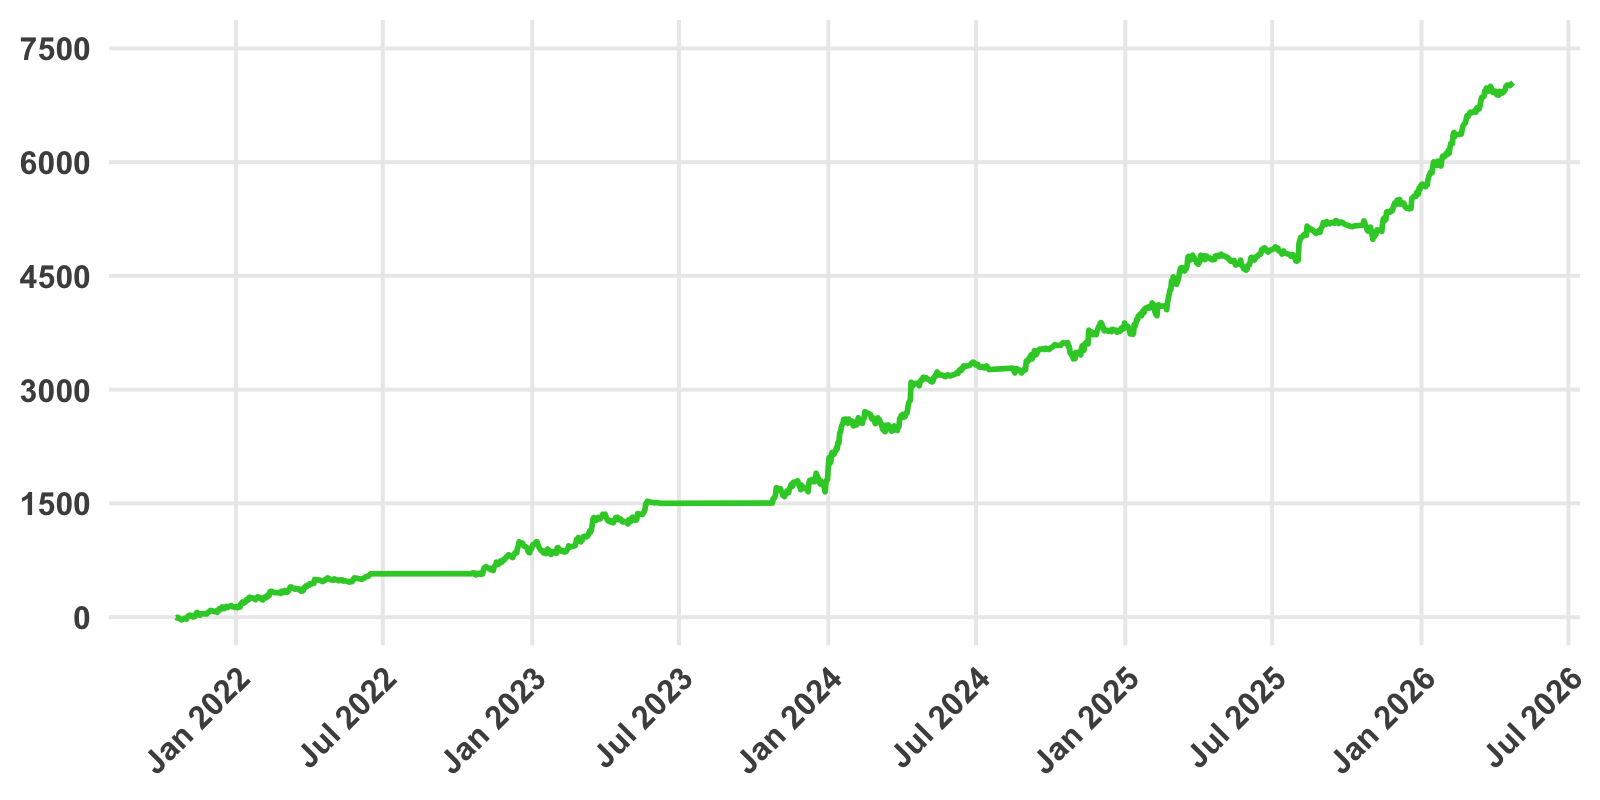
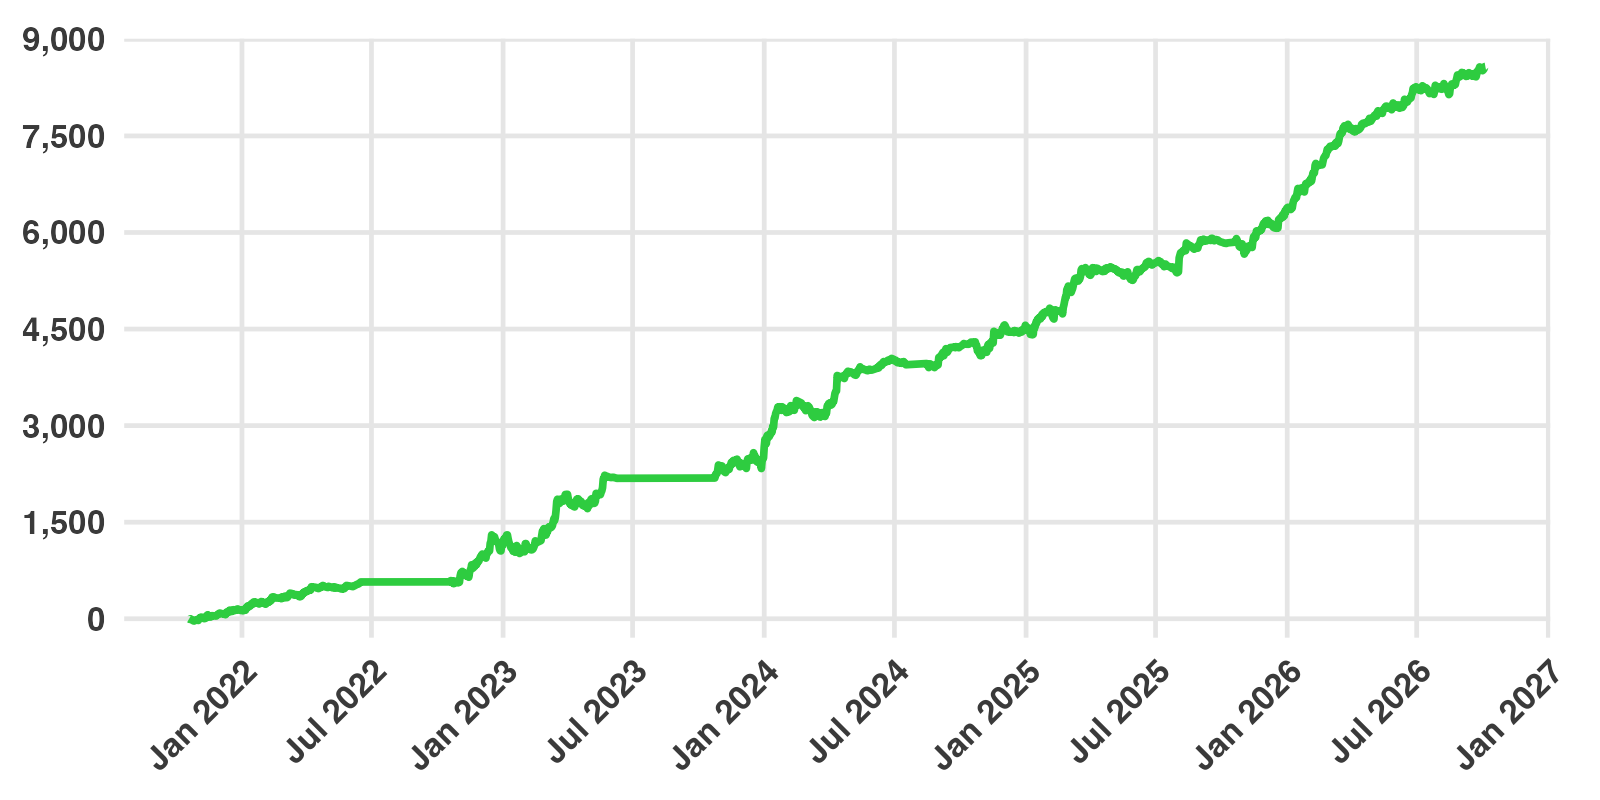
Built site for gh-pages

diff --git a/faq.html b/faq.html
@@ -72,7 +72,7 @@ gtag('config', 'G-66MCY7L0V7', { 'anonymize_ip': true});
 <!-- <meta name="msvalidate.01" content="PASTE_BING_TOKEN"> -->
 <link rel="alternate" type="application/rss+xml" title="Slam Dunk Bets Articles" href="https://slamdunk.bet/articles.xml">
 <link rel="preconnect" href="https://www.googletagmanager.com">
-<script type="application/ld+json">{"@context":"https://schema.org","@graph":[{"@id":"https://slamdunk.bet/#organization","@type":"Organization","description":"Model-driven NBA, WNBA and MLB prop picks from a team of data scientists: first baskets, home runs and NRFI/YRFI, refreshed every 30 minutes and tracked to 8,000+ net units since 2021-22.","email":"slamdunkbettingservices@gmail.com","foundingDate":"2020","image":"https://slamdunk.bet/images/brand/og-default.png","legalName":"Slam Dunk Betting Services LLC","logo":{"@type":"ImageObject","height":512,"url":"https://slamdunk.bet/images/brand/logo-square.png","width":512},"name":"Slam Dunk Bets","sameAs":["https://x.com/slam_dunk_bets","https://x.com/jimtheflash","https://sharpduel.com/slam_dunk_bets","https://whop.com/slam-dunk-bets","https://app.slamdunk.bet"],"url":"https://slamdunk.bet/"},{"@id":"https://slamdunk.bet/#website","@type":"WebSite","description":"Model-driven NBA, WNBA and MLB prop picks from a team of data scientists: first baskets, home runs and NRFI/YRFI, refreshed every 30 minutes and tracked to 8,000+ net units since 2021-22.","inLanguage":"en-US","name":"Slam Dunk Bets","publisher":{"@id":"https://slamdunk.bet/#organization"},"url":"https://slamdunk.bet/"},{"@id":"https://slamdunk.bet/faq.html","@type":"FAQPage","description":"Who we are, what Slam Dunk Bets costs, which NBA, WNBA and MLB props we project, how we track ROI (8,000+ net units since 2021-22), whether it’s legal where you live, where the data comes from, and how the models work.","inLanguage":"en-US","isPartOf":{"@id":"https://slamdunk.bet/#website"},"mainEntity":[{"@type":"Question","acceptedAnswer":{"@type":"Answer","text":"<p>We’re a bunch of data scientists and engineers who use machine\nlearning and artificial intelligence to project who will score first,\nand how they’ll do it, for every NBA and WNBA regular season and playoff\ngame — plus who’ll go deep and whether the first inning scores for every\nMLB game. Slam Dunk Bets has been at this since 2020; more on the <a\nhref=\"https://slamdunk.bet/about.html\">About page<\/a>.<\/p>"},"name":"Who are you nerds?"},{"@type":"Question","acceptedAnswer":{"@type":"Answer","text":"<p>$19.99 a week, $49.99 a month, or $499.99 a year, and every plan\nstarts with a 30-day free trial. Prices are the same whether you\nsubscribe through <a\nhref=\"https://sharpduel.com/slam_dunk_bets\">Sharpduel<\/a>, our preferred\npartner, or <a href=\"https://whop.com/slam-dunk-bets\">Whop<\/a>. Details\non the <a href=\"https://slamdunk.bet/subscribe.html\">Subscribe page<\/a>.<\/p>"},"name":"How much does it cost?"},{"@type":"Question","acceptedAnswer":{"@type":"Answer","text":"<p>Subscribe through Sharpduel or Whop and you get access to our Discord\nserver, where plays post automatically all day with recommended unit\nsizes, plus the <a href=\"https://slamdunk.bet/apps.html\">Slam Dunk Dashboard<\/a> at <a\nhref=\"https://app.slamdunk.bet\">app.slamdunk.bet<\/a>, where you sign in\nwith Discord or Google and see every edge, every book’s price, and the\nfull graded record.<\/p>"},"name":"How do I get the picks?"},{"@type":"Question","acceptedAnswer":{"@type":"Answer","text":"<p>Here’s the current list, but we’re always adding more when new props\nbecome available!<\/p>\n<p>For NBA:<\/p>\n<ul>\n<li>first basket (points and field goals)<\/li>\n<li>first basket exact method<\/li>\n<li>first basket by team<\/li>\n<li>first basket by team exact method<\/li>\n<li>win tipoff<\/li>\n<li>player to <em>not<\/em> score first basket<\/li>\n<li>team to score first<\/li>\n<li>team to score first exact method<\/li>\n<li>first assist<\/li>\n<li>first block<\/li>\n<li>first rebound<\/li>\n<li>first steal<\/li>\n<\/ul>\n<p>For WNBA:<\/p>\n<ul>\n<li>first basket (points and field goals)<\/li>\n<li>first basket exact method<\/li>\n<li>first basket by team<\/li>\n<li>team to score first<\/li>\n<\/ul>\n<p>For MLB:<\/p>\n<ul>\n<li>home runs (by batter)<\/li>\n<li>no runs first inning (NRFI) / yes runs first inning (YRFI)<\/li>\n<\/ul>"},"name":"What props do you project?"},{"@type":"Question","acceptedAnswer":{"@type":"Answer","text":"<p>We don’t do first basket of second half yet. And we also don’t\nproject for games in the future (i.e. games for tomorrow). None of this\nis set in stone, and we do try to keep up with new props as they become\navailable!<\/p>"},"name":"Any notable first basket props you don’t project?"},{"@type":"Question","acceptedAnswer":{"@type":"Answer","text":"<p>We track every bet we recommend and update our ROI totals by market\nevery day on our Discord. Our programmatically tracked betting records\ngo back to the 2021-22 NBA season, and the season-to-date record for\nevery market is always visible in the <a\nhref=\"https://slamdunk.bet/apps.html\">Dashboard<\/a>.<\/p>"},"name":"Do you track your bets?"},{"@type":"Question","acceptedAnswer":{"@type":"Answer","text":"<p>We’ve cleared 8,000+ net units across our tracked NBA, WNBA and MLB\npicks since 2021-22. Unit sizes vary from bettor to bettor, but common\nunits are $100, $10, or $1. Season by season, regular season plus\nplayoffs, with ROI measured on units staked:<\/p>\n<ul>\n<li>2025-26 NBA: +2,135 units (16.4% ROI)<\/li>\n<li>2024-25 NBA: +1,018 units (8.2% ROI)<\/li>\n<li>2023-24 NBA: +1,692 units (11.8% ROI)<\/li>\n<li>2022-23 NBA: +1,610 units*<\/li>\n<li>2021-22 NBA: +572 units (17.1% ROI)**<\/li>\n<li>2026 WNBA: +365 units (11.6% ROI) through August 30<\/li>\n<li>2025 WNBA: +529 units (17.0% ROI)<\/li>\n<li>2024 WNBA: +418 units (21.6% ROI)<\/li>\n<li>2026 MLB, since baseball launched on July 16: home runs +126 units\n(6.0% ROI) and NRFI/YRFI +3 units (0.7% ROI). Stolen bases and batter\nprops started in September and are too new to read anything into.<\/li>\n<\/ul>\n<p>These are the standardized-unit totals from our graded ledgers as of\nSeptember 14, 2026. The live record for every market is in the <a\nhref=\"https://slamdunk.bet/apps.html\">Dashboard<\/a>.<\/p>\n<p><em>* reflects a different application of kelly criterion than we\nused moving forward, i.e. a smaller kelly factor.<\/em><\/p>\n<p><em>** our first tracked season, bet at flat stakes before we\nintroduced Kelly sizing.<\/em><\/p>"},"name":"What kind of ROI are we talking about then?"},{"@type":"Question","acceptedAnswer":{"@type":"Answer","text":"<p>Yep and we update them every day, automatically. Season recaps with\nthe full charts are in the <a href=\"https://slamdunk.bet/articles.html\">Articles<\/a>, starting\nwith the <a href=\"https://slamdunk.bet/posts/2024-10/nba-202324-performance.html\">2023-24 NBA\nrecap<\/a>.<\/p>"},"name":"Whoa that’s a LOT, like an order of magnitude better than other handicappers. You got receipts?"},{"@type":"Question","acceptedAnswer":{"@type":"Answer","text":"<p>Slam Dunk Bets is an information service: we publish projections and\npicks, we don’t take bets or hold anyone’s money. You have to be 21 or\nolder (or the legal betting age where you live), and it’s on you to\nfollow the laws of your state or country when you place a bet. If\ngambling stops being fun, the National Problem Gambling Helpline is\n1-800-GAMBLER.<\/p>"},"name":"Is this legal where I live?"},{"@type":"Question","acceptedAnswer":{"@type":"Answer","text":"<p>We wrote about it in this <a\nhref=\"https://slamdunk.bet/posts/2024-10/predict-first-baskets-2.html\">blog post<\/a> where we\ndescribe the data we use to predict first baskets, and in the <a\nhref=\"https://slamdunk.bet/posts/2026-08/predict-home-runs-1.html\">home run series<\/a> for\nMLB.<\/p>"},"name":"Where do you get your data?"},{"@type":"Question","acceptedAnswer":{"@type":"Answer","text":"<p>Well hey we wrote about our models in this <a\nhref=\"https://slamdunk.bet/posts/2024-10/predict-first-baskets-3.html\">blog post<\/a> for first\nbaskets and <a href=\"https://slamdunk.bet/posts/2026-08/predict-home-runs-1.html\">this one<\/a>\nfor home runs.<\/p>"},"name":"What kinds of models we talking about here?"}],"name":"FAQ","publisher":{"@id":"https://slamdunk.bet/#organization"},"url":"https://slamdunk.bet/faq.html"}]}</script>
+<script type="application/ld+json">{"@context":"https://schema.org","@graph":[{"@id":"https://slamdunk.bet/#organization","@type":"Organization","description":"Model-driven NBA, WNBA and MLB prop picks from a team of data scientists: first baskets, home runs and NRFI/YRFI, refreshed every 30 minutes and tracked to 8,000+ net units since 2021-22.","email":"slamdunkbettingservices@gmail.com","foundingDate":"2020","image":"https://slamdunk.bet/images/brand/og-default.png","legalName":"Slam Dunk Betting Services LLC","logo":{"@type":"ImageObject","height":512,"url":"https://slamdunk.bet/images/brand/logo-square.png","width":512},"name":"Slam Dunk Bets","sameAs":["https://x.com/slam_dunk_bets","https://x.com/jimtheflash","https://sharpduel.com/slam_dunk_bets","https://whop.com/slam-dunk-bets","https://app.slamdunk.bet"],"url":"https://slamdunk.bet/"},{"@id":"https://slamdunk.bet/#website","@type":"WebSite","description":"Model-driven NBA, WNBA and MLB prop picks from a team of data scientists: first baskets, home runs and NRFI/YRFI, refreshed every 30 minutes and tracked to 8,000+ net units since 2021-22.","inLanguage":"en-US","name":"Slam Dunk Bets","publisher":{"@id":"https://slamdunk.bet/#organization"},"url":"https://slamdunk.bet/"},{"@id":"https://slamdunk.bet/faq.html","@type":"FAQPage","description":"Who we are, what Slam Dunk Bets costs, which NBA, WNBA and MLB props we project, how we track ROI (8,000+ net units since 2021-22), whether it’s legal where you live, where the data comes from, and how the models work.","inLanguage":"en-US","isPartOf":{"@id":"https://slamdunk.bet/#website"},"mainEntity":[{"@type":"Question","acceptedAnswer":{"@type":"Answer","text":"<p>We’re a bunch of data scientists and engineers who use machine\nlearning and artificial intelligence to project who will score first,\nand how they’ll do it, for every NBA and WNBA regular season and playoff\ngame — plus who’ll go deep and whether the first inning scores for every\nMLB game. Slam Dunk Bets has been at this since 2020; more on the <a\nhref=\"https://slamdunk.bet/about.html\">About page<\/a>.<\/p>"},"name":"Who are you nerds?"},{"@type":"Question","acceptedAnswer":{"@type":"Answer","text":"<p>$19.99 a week, $49.99 a month, or $499.99 a year, and every plan\nstarts with a 30-day free trial. Prices are the same whether you\nsubscribe through <a\nhref=\"https://sharpduel.com/slam_dunk_bets\">Sharpduel<\/a>, our preferred\npartner, or <a href=\"https://whop.com/slam-dunk-bets\">Whop<\/a>. Details\non the <a href=\"https://slamdunk.bet/subscribe.html\">Subscribe page<\/a>.<\/p>"},"name":"How much does it cost?"},{"@type":"Question","acceptedAnswer":{"@type":"Answer","text":"<p>Subscribe through Sharpduel or Whop and you get access to our Discord\nserver, where plays post automatically all day with recommended unit\nsizes, plus the <a href=\"https://slamdunk.bet/apps.html\">Slam Dunk Dashboard<\/a> at <a\nhref=\"https://app.slamdunk.bet\">app.slamdunk.bet<\/a>, where you sign in\nwith Discord or Google and see every edge, every book’s price, and the\nfull graded record.<\/p>"},"name":"How do I get the picks?"},{"@type":"Question","acceptedAnswer":{"@type":"Answer","text":"<p>Here’s the current list, but we’re always adding more when new props\nbecome available!<\/p>\n<p>For NBA:<\/p>\n<ul>\n<li>first basket (points and field goals)<\/li>\n<li>first basket exact method<\/li>\n<li>first basket by team<\/li>\n<li>first basket by team exact method<\/li>\n<li>win tipoff<\/li>\n<li>player to <em>not<\/em> score first basket<\/li>\n<li>team to score first<\/li>\n<li>team to score first exact method<\/li>\n<li>first assist<\/li>\n<li>first block<\/li>\n<li>first rebound<\/li>\n<li>first steal<\/li>\n<\/ul>\n<p>For WNBA:<\/p>\n<ul>\n<li>first basket (points and field goals)<\/li>\n<li>first basket exact method<\/li>\n<li>first basket by team<\/li>\n<li>team to score first<\/li>\n<\/ul>\n<p>For MLB:<\/p>\n<ul>\n<li>home runs (by batter)<\/li>\n<li>no runs first inning (NRFI) / yes runs first inning (YRFI)<\/li>\n<\/ul>"},"name":"What props do you project?"},{"@type":"Question","acceptedAnswer":{"@type":"Answer","text":"<p>We don’t do first basket of second half yet. And we also don’t\nproject for games in the future (i.e. games for tomorrow). None of this\nis set in stone, and we do try to keep up with new props as they become\navailable!<\/p>"},"name":"Any notable first basket props you don’t project?"},{"@type":"Question","acceptedAnswer":{"@type":"Answer","text":"<p>We track every bet we recommend and update our ROI totals by market\nevery day on our Discord. Our programmatically tracked betting records\ngo back to the 2021-22 NBA season, and the season-to-date record for\nevery market is always visible in the <a\nhref=\"https://slamdunk.bet/apps.html\">Dashboard<\/a>.<\/p>"},"name":"Do you track your bets?"},{"@type":"Question","acceptedAnswer":{"@type":"Answer","text":"<p>We’ve cleared 8,000+ net units across our tracked NBA, WNBA and MLB\npicks since 2021-22. Unit sizes vary from bettor to bettor, but common\nunits are $100, $10, or $1. Season by season, regular season plus\nplayoffs, with ROI measured on units staked:<\/p>\n<ul>\n<li>2025-26 NBA: +2,135 units (16.3% ROI)<\/li>\n<li>2024-25 NBA: +1,018 units (8.2% ROI)<\/li>\n<li>2023-24 NBA: +1,692 units (11.8% ROI)<\/li>\n<li>2022-23 NBA: +1,610 units*<\/li>\n<li>2021-22 NBA: +572 units (17.1% ROI)**<\/li>\n<li>2026 WNBA: +443 units (12.2% ROI), regular season and playoffs\nthrough October 4<\/li>\n<li>2025 WNBA: +529 units (17.0% ROI)<\/li>\n<li>2024 WNBA: +418 units (21.6% ROI)<\/li>\n<li>2026 MLB, since baseball launched on July 16: home runs +142 units\n(5.3% ROI) and NRFI/YRFI +20 units (3.3% ROI). Stolen bases and batter\nprops started in September and are too new to read anything into.<\/li>\n<\/ul>\n<p>These are the standardized-unit totals from our graded ledgers as of\nOctober 5, 2026. The live record for every market is in the <a\nhref=\"https://slamdunk.bet/apps.html\">Dashboard<\/a>.<\/p>\n<p><em>* reflects a different application of kelly criterion than we\nused moving forward, i.e. a smaller kelly factor.<\/em><\/p>\n<p><em>** our first tracked season, bet at flat stakes before we\nintroduced Kelly sizing.<\/em><\/p>"},"name":"What kind of ROI are we talking about then?"},{"@type":"Question","acceptedAnswer":{"@type":"Answer","text":"<p>Yep and we update them every day, automatically. Season recaps with\nthe full charts are in the <a href=\"https://slamdunk.bet/articles.html\">Articles<\/a>, starting\nwith the <a href=\"https://slamdunk.bet/posts/2024-10/nba-202324-performance.html\">2023-24 NBA\nrecap<\/a>.<\/p>"},"name":"Whoa that’s a LOT, like an order of magnitude better than other handicappers. You got receipts?"},{"@type":"Question","acceptedAnswer":{"@type":"Answer","text":"<p>Slam Dunk Bets is an information service: we publish projections and\npicks, we don’t take bets or hold anyone’s money. You have to be 21 or\nolder (or the legal betting age where you live), and it’s on you to\nfollow the laws of your state or country when you place a bet. If\ngambling stops being fun, the National Problem Gambling Helpline is\n1-800-GAMBLER.<\/p>"},"name":"Is this legal where I live?"},{"@type":"Question","acceptedAnswer":{"@type":"Answer","text":"<p>We wrote about it in this <a\nhref=\"https://slamdunk.bet/posts/2024-10/predict-first-baskets-2.html\">blog post<\/a> where we\ndescribe the data we use to predict first baskets, and in the <a\nhref=\"https://slamdunk.bet/posts/2026-08/predict-home-runs-1.html\">home run series<\/a> for\nMLB.<\/p>"},"name":"Where do you get your data?"},{"@type":"Question","acceptedAnswer":{"@type":"Answer","text":"<p>Well hey we wrote about our models in this <a\nhref=\"https://slamdunk.bet/posts/2024-10/predict-first-baskets-3.html\">blog post<\/a> for first\nbaskets and <a href=\"https://slamdunk.bet/posts/2026-08/predict-home-runs-1.html\">this one<\/a>\nfor home runs.<\/p>"},"name":"What kinds of models we talking about here?"}],"name":"FAQ","publisher":{"@id":"https://slamdunk.bet/#organization"},"url":"https://slamdunk.bet/faq.html"}]}</script>
 <meta property="og:url" content="https://slamdunk.bet/faq.html">
 <meta property="og:type" content="website">
 
@@ -238,17 +238,17 @@ gtag('config', 'G-66MCY7L0V7', { 'anonymize_ip': true});
 <h3 data-anchor-id="what-kind-of-roi-are-we-talking-about-then">What kind of ROI are we talking about then?</h3>
 <p>We’ve cleared 8,000+ net units across our tracked NBA, WNBA and MLB picks since 2021-22. Unit sizes vary from bettor to bettor, but common units are $100, $10, or $1. Season by season, regular season plus playoffs, with ROI measured on units staked:</p>
 <ul>
-<li>2025-26 NBA: +2,135 units (16.4% ROI)</li>
+<li>2025-26 NBA: +2,135 units (16.3% ROI)</li>
 <li>2024-25 NBA: +1,018 units (8.2% ROI)</li>
 <li>2023-24 NBA: +1,692 units (11.8% ROI)</li>
 <li>2022-23 NBA: +1,610 units*</li>
 <li>2021-22 NBA: +572 units (17.1% ROI)**</li>
-<li>2026 WNBA: +365 units (11.6% ROI) through August 30</li>
+<li>2026 WNBA: +443 units (12.2% ROI), regular season and playoffs through October 4</li>
 <li>2025 WNBA: +529 units (17.0% ROI)</li>
 <li>2024 WNBA: +418 units (21.6% ROI)</li>
-<li>2026 MLB, since baseball launched on July 16: home runs +126 units (6.0% ROI) and NRFI/YRFI +3 units (0.7% ROI). Stolen bases and batter props started in September and are too new to read anything into.</li>
+<li>2026 MLB, since baseball launched on July 16: home runs +142 units (5.3% ROI) and NRFI/YRFI +20 units (3.3% ROI). Stolen bases and batter props started in September and are too new to read anything into.</li>
 </ul>
-<p>These are the standardized-unit totals from our graded ledgers as of September 14, 2026. The live record for every market is in the <a href="./apps.html">Dashboard</a>.</p>
+<p>These are the standardized-unit totals from our graded ledgers as of October 5, 2026. The live record for every market is in the <a href="./apps.html">Dashboard</a>.</p>
 <p><em>* reflects a different application of kelly criterion than we used moving forward, i.e.&nbsp;a smaller kelly factor.</em></p>
 <p><em>** our first tracked season, bet at flat stakes before we introduced Kelly sizing.</em></p>
 </section>

diff --git a/index.html b/index.html
@@ -220,8 +220,8 @@ gtag('config', 'G-66MCY7L0V7', { 'anonymize_ip': true});
 <p>We’ve tracked every pick since the 2021–22 NBA season, and the full cumulative chart is still climbing.</p>
 <div class="quarto-figure quarto-figure-center">
 <figure class="figure">
-<p><img src="images/home/cumulative_total.png" alt="Cumulative ROI chart for Slam Dunk Bets picks since 2021-22" width="1600" height="800" class="figure-img"></p>
-<figcaption>Cumulative Slam Dunk Bets ROI since 2021–22</figcaption>
+<p><img src="images/home/cumulative_total.png" alt="Line chart of cumulative net units for Slam Dunk Bets picks from October 2021 to October 2026, climbing from 0 to about 8,600 units" width="1600" height="800" class="figure-img"></p>
+<figcaption>Net units across every tracked NBA, WNBA and MLB pick, October 2021 through October 5, 2026. The 2022-23 NBA season is drawn at +1,610 units; see the <a href="./faq.html">FAQ</a> for every season.</figcaption>
 </figure>
 </div>
 </section>
